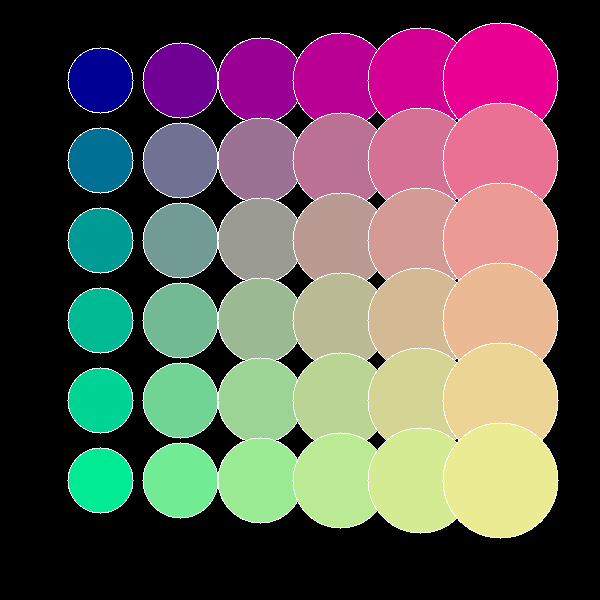
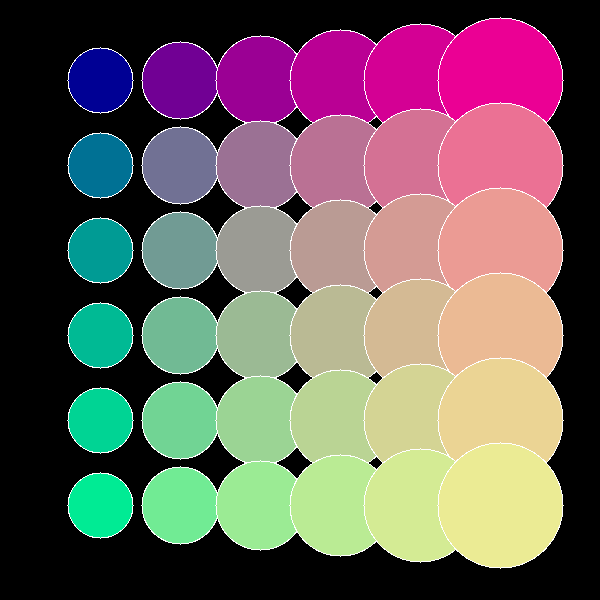
a01

diff --git a/src/cgg/A03.java b/src/cgg/A03.java
@@ -20,11 +20,11 @@ public class A03 {
     int rows = 6;
     int cols = 6;
     int baseRadius = 32;
-    int radiusIncrement = 5;
+    int radiusIncrement = 6;
     int borderWidth = 1;
 
     int colSpacing = 80;
-    int rowSpacing = 80;
+    int rowSpacing = 85;
     
 
     //3. 绘制矩阵
